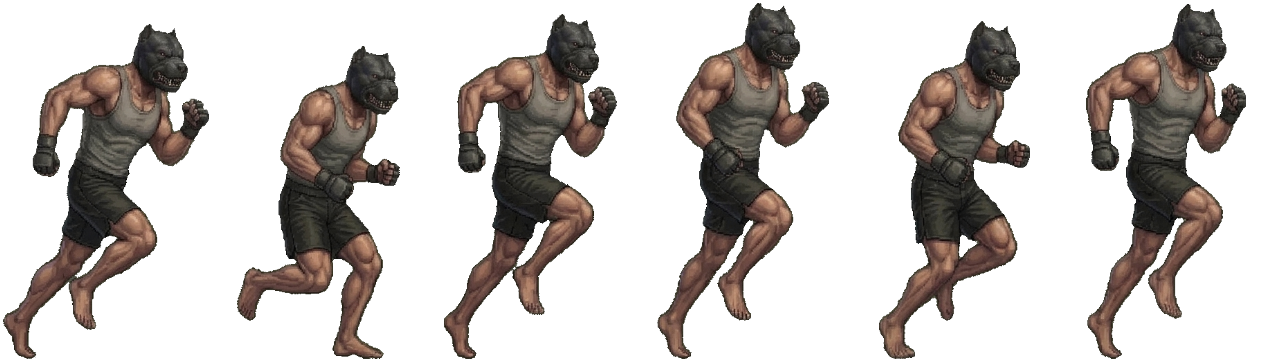
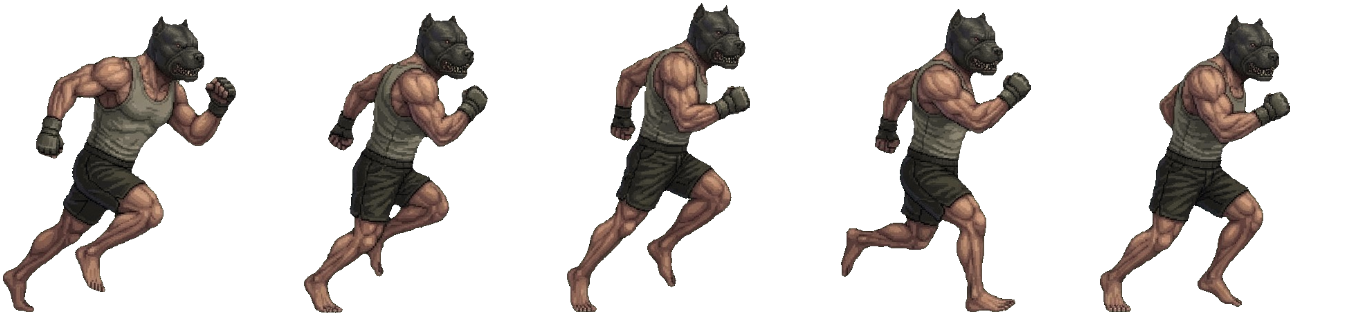
Питбуль: новая анимация бега (выравнивание по корпусу и линии пола)

diff --git a/index.html b/index.html
@@ -350,7 +350,7 @@ const CH=[
 //    hit — номер кадра удара (до него — замах, после — возврат)
 // размер ячейки берётся из самой картинки при загрузке (cw, ch в таблице — только до загрузки)
 // версия картинок: менять при каждой замене спрайтов, иначе браузеры игроков показывают старые из кэша
-const AV='20261114f';
+const AV='20261114g';
 function sheet(src,frames,cw,ch,fps,o){
   const img=new Image(),a={img,frames,cw,ch,fps,...o};
   img.onload=()=>{a.cw=img.naturalWidth/frames;a.ch=img.naturalHeight;};
@@ -459,7 +459,7 @@ CH.push({name:'PITBULL',body:'#555',pants:'#222',accent:'#c22',glove:'#333',spee
   aij:[['p1','p1','p2','k2'],['p2','p1','p2'],['k1','p2','p1','p2'],['p1','p2','p2'],['k2','p1','p2','k1'],['p1','p1','k1']],
   desc:'Спрайт · хватка',scale:.53,sprite:{
     idle:PS('idle',6,192,385,8),
-    walk:PS('walk',6,174,385,0,{cyc:1}),run:PS('run',6,212,362,0,{cyc:1}),
+    walk:PS('walk',6,174,385,0,{cyc:1}),run:PS('run',5,272,316,0,{cyc:1}),
     jump:PS('jump',6,238,370,0,{vy:1}),
     crouch:PS('crouch',6,190,384,30,{once:1,n:4}),
     block:PS('block',6,188,384,30,{once:1,n:4}),

diff --git a/tools/cut_alpha.py b/tools/cut_alpha.py
@@ -215,6 +215,9 @@ for job in cfg['jobs']:
         top, bot, lft, rgt = int(ys.min()), int(ys.max()), int(xs.min()), int(xs.max())
         if job.get('anchor') == 'box':
             ax = (lft + rgt) / 2
+        elif job.get('anchor') == 'torso':  # по середине верхних 45% силуэта (голова и корпус) — бег без дёрганья
+            t = xs[ys <= top + (bot - top) * 0.45]
+            ax = (int(t.min()) + int(t.max())) / 2
         else:
             feet = xs[ys >= bot - (bot - top) * 0.08]
             ax = (int(feet.min()) + int(feet.max())) / 2
